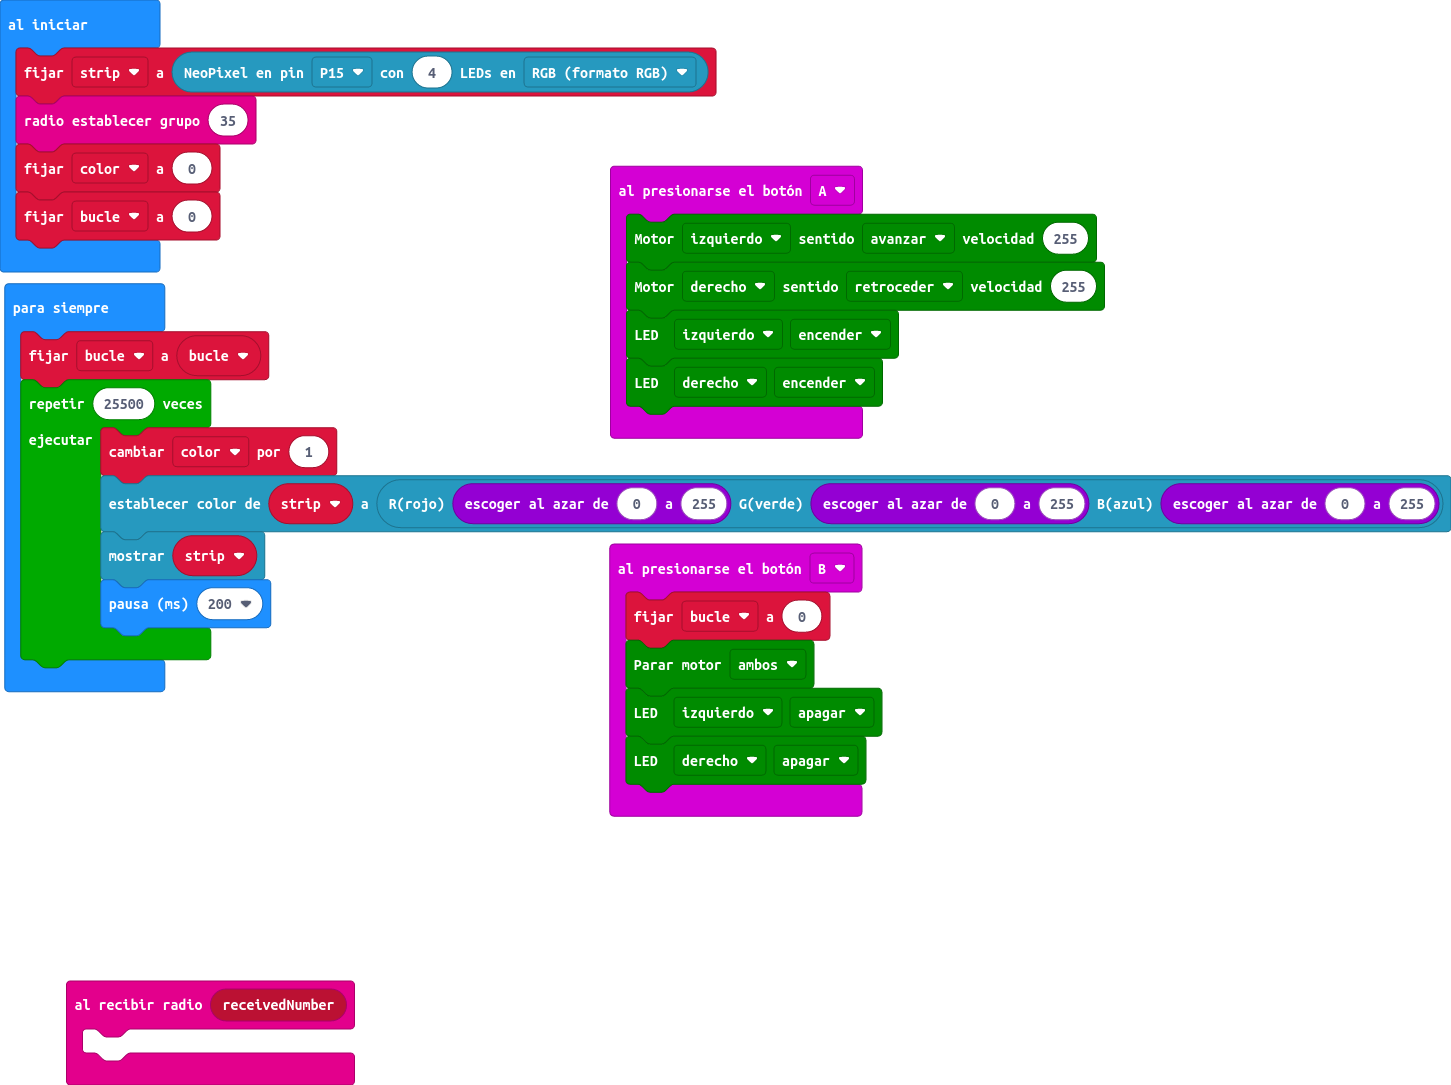
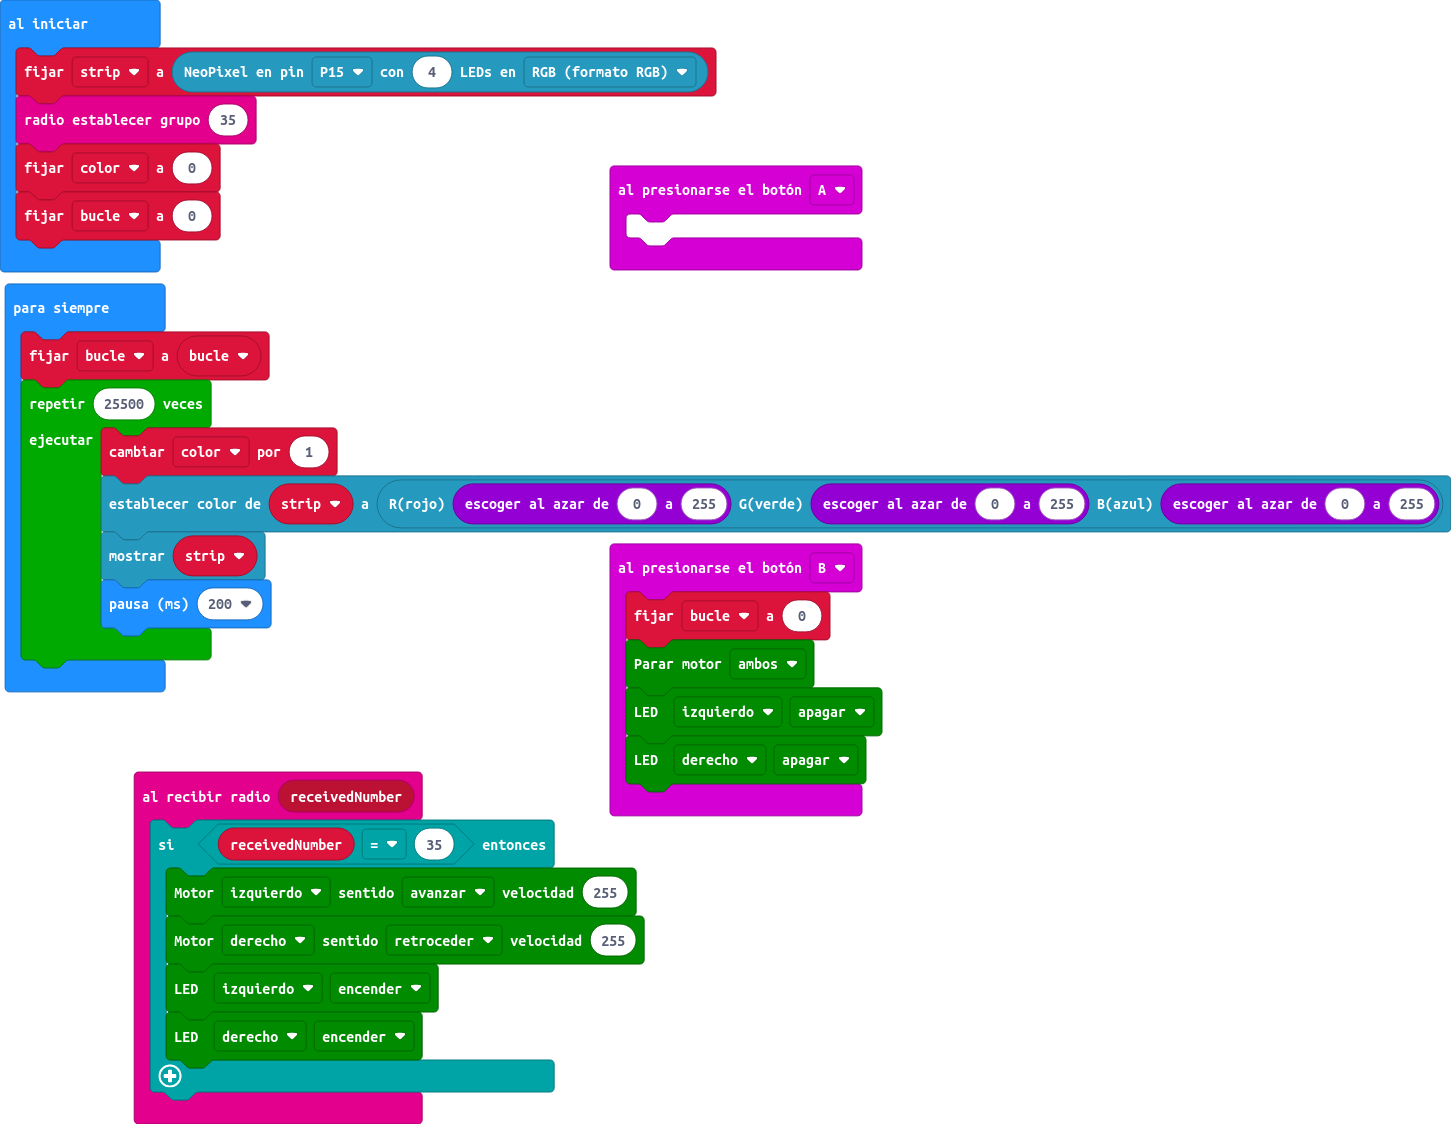
Actualizar main.blocks, main.ts

Changed region(s): [[0.0, 0.0, 1.0, 1.0]]

diff --git a/main.ts b/main.ts
@@ -1,11 +1,13 @@
 radio.onReceivedNumber(function (receivedNumber) {
-	
+    if (receivedNumber == 35) {
+        maqueen.motorRun(maqueen.Motors.M1, maqueen.Dir.CW, 255)
+        maqueen.motorRun(maqueen.Motors.M2, maqueen.Dir.CCW, 255)
+        maqueen.writeLED(maqueen.LED.LEDLeft, maqueen.LEDswitch.turnOn)
+        maqueen.writeLED(maqueen.LED.LEDRight, maqueen.LEDswitch.turnOn)
+    }
 })
 input.onButtonPressed(Button.A, function () {
-    maqueen.motorRun(maqueen.Motors.M1, maqueen.Dir.CW, 255)
-    maqueen.motorRun(maqueen.Motors.M2, maqueen.Dir.CCW, 255)
-    maqueen.writeLED(maqueen.LED.LEDLeft, maqueen.LEDswitch.turnOn)
-    maqueen.writeLED(maqueen.LED.LEDRight, maqueen.LEDswitch.turnOn)
+	
 })
 input.onButtonPressed(Button.B, function () {
     bucle = 0
